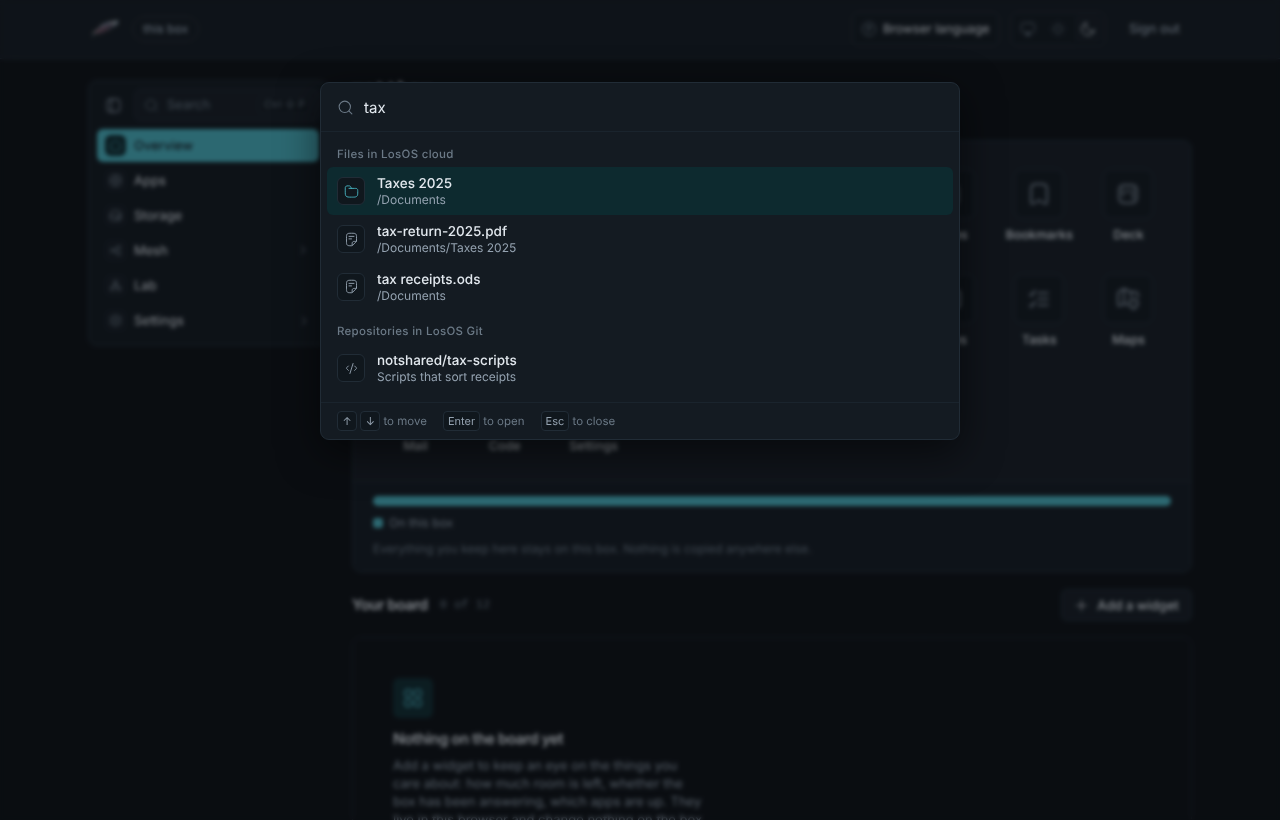
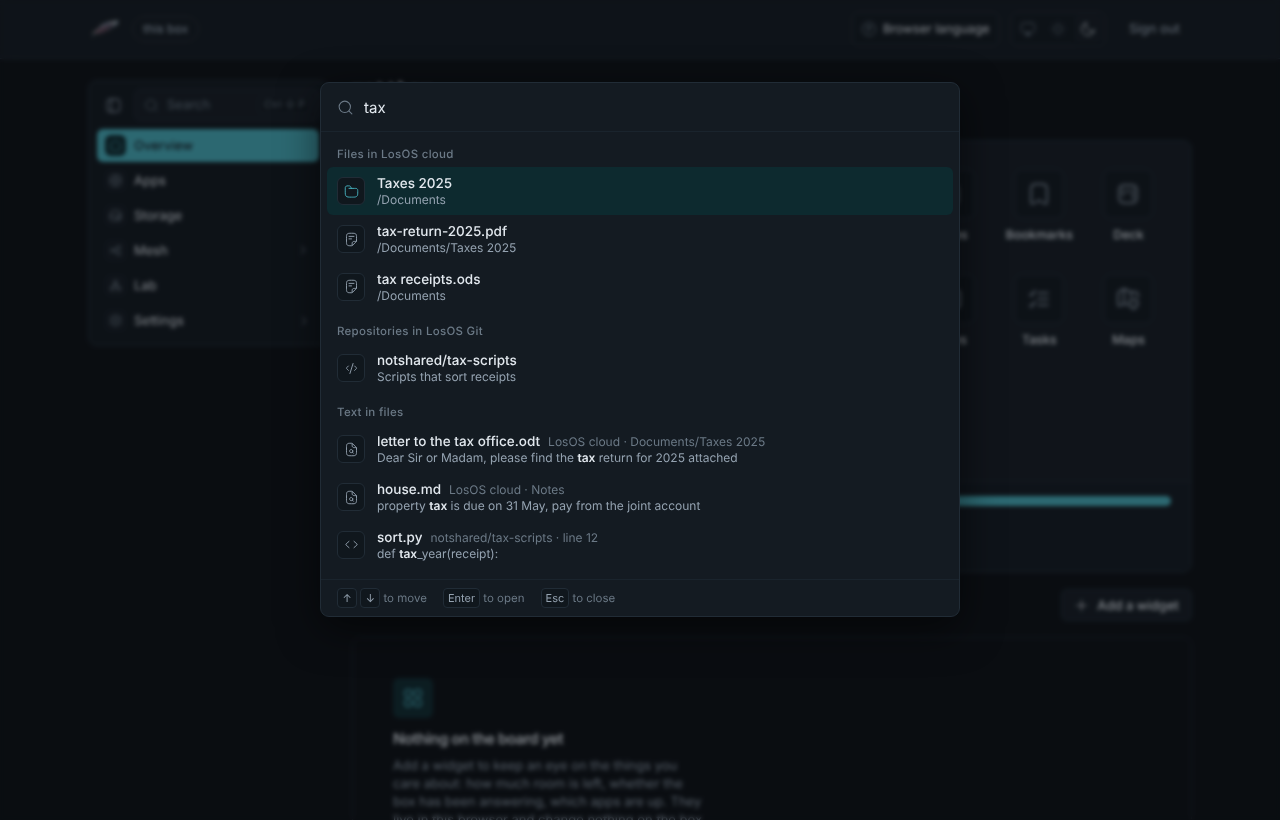
admin UI: a Text in files group in the palette
From three letters the palette asks both text searches and lists the
matching lines under the file or repository they are in, with the words
marked. A partial index says so; a box with the search off hides the
group.

Changed region(s): [[0.25, 0.4878, 0.75, 0.7622]]

diff --git a/admin-ui/app/src/palette/command-palette.tsx b/admin-ui/app/src/palette/command-palette.tsx
@@ -1,7 +1,15 @@
 import * as React from "react";
 import { useNavigate } from "react-router-dom";
 import { HugeiconsIcon } from "@hugeicons/react";
-import { File01Icon, Folder01Icon, PackageIcon, Search01Icon, SourceCodeIcon } from "@hugeicons/core-free-icons";
+import {
+  CodeIcon,
+  File01Icon,
+  FileSearchIcon,
+  Folder01Icon,
+  PackageIcon,
+  Search01Icon,
+  SourceCodeIcon,
+} from "@hugeicons/core-free-icons";
 import { Dialog } from "@/components/ui/dialog";
 import { Spinner } from "@/components/ui/spinner";
 import type { MessageKey } from "@/lib/i18n";
@@ -10,10 +18,14 @@ import { getTheme, subscribeTheme } from "@/lib/theme";
 import { cn } from "@/lib/utils";
 import { actionItems, appItems, pageItems, rank, type GroupId, type Item, type Target } from "./items";
 import {
+  cloudTextHref,
   fileHref,
+  gitTextHref,
   repoHref,
   searchApps,
+  searchCloudText,
   searchFiles,
+  searchGitText,
   searchRepos,
   useRemote,
   type Remote,
@@ -25,6 +37,9 @@ import { closePalette, paletteState, subscribePalette } from "./store";
  * it. Ctrl/Cmd+Shift+P opens it from anywhere on the page, a colon typed
  * outside a text field does too, and so does the search box at the top of
  * the sidebar.
+ *
+ * Text inside files is its own group: LosOS cloud's files through the box's
+ * index, LosOS Git's default branches through `git grep`, cloud first.
  *
  * Built on the native <dialog> (components/ui/dialog.tsx) and the ARIA
  * combobox pattern by hand: the input keeps focus, the arrow keys move a
@@ -43,12 +58,17 @@ const GROUP_TITLE: Record<GroupId, MessageKey> = {
   apps: "palette.group.apps",
   files: "palette.group.files",
   repos: "palette.group.repos",
+  text: "palette.group.text",
   install: "palette.group.install",
   actions: "palette.group.actions",
 };
 
 /** How many rows a group shows. The palette is for jumping, not browsing. */
-const LIMIT: Record<GroupId, number> = { pages: 8, apps: 6, files: 8, repos: 6, install: 5, actions: 8 };
+const LIMIT: Record<GroupId, number> = { pages: 8, apps: 6, files: 8, repos: 6, text: 8, install: 5, actions: 8 };
+
+/** Letters typed before the box is asked what is inside the files: fewer
+ *  match nearly every document. */
+const TEXT_MIN = 3;
 
 /** Before anything is typed: where to go, a few repositories, what to do. */
 const IDLE_GROUPS: readonly GroupId[] = ["pages", "repos", "actions"];
@@ -99,6 +119,8 @@ function PaletteBody({ initial }: { initial: string }) {
   const files = useRemote(true, query, 2, searchFiles);
   const repos = useRemote(true, query, 0, searchRepos);
   const install = useRemote(true, query, 2, searchApps);
+  const cloudText = useRemote(true, query, TEXT_MIN, searchCloudText);
+  const gitText = useRemote(true, query, TEXT_MIN, searchGitText);
 
   const groups: Group[] = [];
   const push = (id: GroupId, items: Item[], note: Group["note"] = null): void => {
@@ -144,6 +166,35 @@ function PaletteBody({ initial }: { initial: string }) {
       notUp: "palette.repos.notUp",
       failed: "palette.repos.failed",
     }, t),
+  );
+  push(
+    "text",
+    [
+      ...remoteItems(cloudText, query, (hit) => {
+        const cut = hit.path.lastIndexOf("/");
+        return {
+          id: `text-cloud-${hit.path}`,
+          group: "text",
+          title: hit.path.slice(cut + 1),
+          location: cut < 0 ? t("palette.inCloud") : `${t("palette.inCloud")} · ${hit.path.slice(0, cut)}`,
+          snippet: hit.snippet,
+          words: hit.snippet.join(""),
+          icon: FileSearchIcon,
+          target: { kind: "href", href: cloudTextHref(hit) },
+        };
+      }),
+      ...remoteItems(gitText, query, (hit) => ({
+        id: `text-git-${hit.owner}-${hit.repo}-${hit.path}-${hit.line}`,
+        group: "text",
+        title: hit.path.slice(hit.path.lastIndexOf("/") + 1),
+        location: `${hit.owner}/${hit.repo} · ${t("palette.text.line", { line: String(hit.line) })}`,
+        snippet: hit.snippet,
+        words: hit.snippet.join(""),
+        icon: CodeIcon,
+        target: { kind: "href", href: gitTextHref(hit) },
+      })),
+    ],
+    textNote(cloudText, gitText, t),
   );
   push(
     "install",
@@ -329,9 +380,30 @@ function Option({
         <HugeiconsIcon icon={item.icon} size={15} strokeWidth={1.5} color="currentColor" aria-hidden="true" />
       </span>
       <span className="min-w-0 flex-1">
-        <span className="block truncate text-[13.5px] leading-tight font-medium">{item.title}</span>
-        {item.detail !== undefined && item.detail !== null && item.detail.length > 0 && (
-          <span className="block truncate text-[12px] leading-tight text-muted">{item.detail}</span>
+        <span className="flex min-w-0 items-baseline gap-2">
+          <span className="truncate text-[13.5px] leading-tight font-medium">{item.title}</span>
+          {item.location !== undefined && (
+            <span className="min-w-0 shrink truncate text-[12px] leading-tight text-faint">{item.location}</span>
+          )}
+        </span>
+        {item.snippet !== undefined ? (
+          <span className="block truncate text-[12px] leading-tight text-muted">
+            {item.snippet.map((run, index) =>
+              index % 2 === 1 ? (
+                <mark key={index} className="bg-transparent font-semibold text-ink">
+                  {run}
+                </mark>
+              ) : (
+                <React.Fragment key={index}>{run}</React.Fragment>
+              ),
+            )}
+          </span>
+        ) : (
+          item.detail !== undefined &&
+          item.detail !== null &&
+          item.detail.length > 0 && (
+            <span className="block truncate text-[12px] leading-tight text-muted">{item.detail}</span>
+          )
         )}
       </span>
     </div>
@@ -401,6 +473,20 @@ function remoteNote<T>(remote: Remote<T>, keys: NoteKeys, t: ReturnType<typeof u
     default:
       return null;
   }
+}
+
+/* The text group's one line for both searches: looking while neither has
+ * anything to show yet, then that the cloud index is still being built, then
+ * a failure. A search the box does not run (off, no LosOS Git, not up yet)
+ * says nothing; the other one still lists its hits. */
+function textNote<A, B>(cloud: Remote<A>, git: Remote<B>, t: ReturnType<typeof useT>): Group["note"] {
+  const shown = (r: Remote<unknown>): boolean => r.kind === "ready" && r.items.length > 0;
+  if ((cloud.kind === "loading" || git.kind === "loading") && !shown(cloud) && !shown(git)) {
+    return { text: t("palette.text.looking"), busy: true };
+  }
+  if (cloud.kind === "ready" && cloud.partial) return { text: t("palette.text.partial"), busy: false };
+  if (cloud.kind === "failed" || git.kind === "failed") return { text: t("palette.text.failed"), busy: false };
+  return null;
 }
 
 /** "/Documents/Taxes/x.pdf" -> "/Documents/Taxes". */

diff --git a/admin-ui/app/src/palette/sources.ts b/admin-ui/app/src/palette/sources.ts
@@ -4,7 +4,8 @@ import { searchCatalogue, type CatalogueApp } from "@/screens/settings/catalogue
 import { authedGet, isRecord, nonEmptyString, notPresent } from "@/screens/settings/http";
 
 /* What the palette asks the box for while the owner types: files in LosOS
- * cloud, repositories in LosOS Git and apps to install.
+ * cloud, repositories in LosOS Git, text inside the files of both, and apps
+ * to install.
  *
  * Every one of them goes through lososd. The page is served under
  * `connect-src 'self'`, and the two apps' own APIs want credentials this
@@ -28,27 +29,47 @@ export interface GitRepo {
   description: string | null;
 }
 
+/** A file in LosOS cloud whose text matched. */
+export interface CloudText {
+  /** From the owner's root, without a leading slash. */
+  path: string;
+  /** Alternating runs: even indices plain, odd ones what matched. */
+  snippet: readonly string[];
+}
+
+/** A line on a repository's default branch that matched. */
+export interface GitText {
+  owner: string;
+  repo: string;
+  branch: string;
+  path: string;
+  line: number;
+  snippet: readonly string[];
+}
+
 /* Why a group has nothing to list even though its route answered:
  *   signIn  file search needs the app password lososd keeps from the
  *           owner's last password sign-in, and there has not been one yet
  *   notUp   the app is not running (yet)
- *   noGit   this box runs no LosOS Git */
-export type Blocked = "signIn" | "notUp" | "noGit";
+ *   noGit   this box runs no LosOS Git
+ *   off     the owner turned the search inside files off */
+export type Blocked = "signIn" | "notUp" | "noGit" | "off";
 
 export type Remote<T> =
   | { kind: "idle" }
   | { kind: "loading" }
   /** `query` is what the items answer; while the next answer is on its way
-   *  the palette keeps them, narrowed to what is typed now. */
-  | { kind: "ready"; items: readonly T[]; query: string }
+   *  the palette keeps them, narrowed to what is typed now. `partial`: the
+   *  box has not finished reading everything yet. */
+  | { kind: "ready"; items: readonly T[]; query: string; partial: boolean }
   | { kind: "blocked"; reason: Blocked }
   | { kind: "absent" }
   | { kind: "failed" };
 
-type Answer<T> = { items: readonly T[] } | { blocked: Blocked };
+type Answer<T> = { items: readonly T[]; partial?: boolean } | { blocked: Blocked };
 
 function blockedReason(value: unknown): Blocked {
-  return value === "signIn" || value === "noGit" ? value : "notUp";
+  return value === "signIn" || value === "noGit" || value === "off" ? value : "notUp";
 }
 
 /** GET /api/cloud/files?q= : `{available, reason, entries: [...]}`. */
@@ -86,6 +107,47 @@ export async function searchRepos(query: string, signal: AbortSignal): Promise<A
   return { items };
 }
 
+/** Alternating plain and matched runs, as the box sends them. */
+function snippetOf(value: unknown): string[] {
+  return Array.isArray(value) ? value.filter((run): run is string => typeof run === "string") : [];
+}
+
+/** GET /api/cloud/text?q= : `{available, reason, partial, hits: [...]}`. */
+export async function searchCloudText(query: string, signal: AbortSignal): Promise<Answer<CloudText>> {
+  const body = await authedGet(`/api/cloud/text?q=${encodeURIComponent(query)}`, { signal });
+  if (!isRecord(body)) return { items: [] };
+  if (body["available"] === false) return { blocked: blockedReason(body["reason"]) };
+  const items: CloudText[] = [];
+  for (const hit of Array.isArray(body["hits"]) ? body["hits"] : []) {
+    if (!isRecord(hit)) continue;
+    const path = nonEmptyString(hit["path"]);
+    if (path === null) continue;
+    items.push({ path, snippet: snippetOf(hit["snippet"]) });
+  }
+  return { items, partial: body["partial"] === true };
+}
+
+/** GET /api/git/text?q= : `{available, reason, hits: [...]}`. */
+export async function searchGitText(query: string, signal: AbortSignal): Promise<Answer<GitText>> {
+  const body = await authedGet(`/api/git/text?q=${encodeURIComponent(query)}`, { signal });
+  if (!isRecord(body)) return { items: [] };
+  if (body["available"] === false) return { blocked: blockedReason(body["reason"]) };
+  const items: GitText[] = [];
+  for (const hit of Array.isArray(body["hits"]) ? body["hits"] : []) {
+    if (!isRecord(hit)) continue;
+    const owner = nonEmptyString(hit["owner"]);
+    const repo = nonEmptyString(hit["repo"]);
+    const branch = nonEmptyString(hit["branch"]);
+    const path = nonEmptyString(hit["path"]);
+    const line = hit["line"];
+    if (owner === null || repo === null || branch === null || path === null) continue;
+    if (!/^[\w.-]+$/.test(owner) || !/^[\w.-]+$/.test(repo)) continue;
+    if (typeof line !== "number" || !Number.isSafeInteger(line) || line < 1) continue;
+    items.push({ owner, repo, branch, path, line, snippet: snippetOf(hit["snippet"]) });
+  }
+  return { items };
+}
+
 export async function searchApps(query: string, signal: AbortSignal): Promise<Answer<CatalogueApp>> {
   return { items: (await searchCatalogue(query, signal)).apps };
 }
@@ -96,6 +158,26 @@ export function fileHref(file: CloudFile): string {
 
 export function repoHref(repo: GitRepo): string {
   return `/forgejo/${encodeURIComponent(repo.owner)}/${encodeURIComponent(repo.name)}`;
+}
+
+/** Each segment of a path, escaped on its own. */
+function segments(path: string): string {
+  return path.split("/").filter((part) => part.length > 0).map(encodeURIComponent).join("/");
+}
+
+/* A cloud hit opens its folder in LosOS cloud's Files with the file
+ * scrolled to: the index knows paths, and Nextcloud's /f/<id> wants the id
+ * only Nextcloud's own database holds. */
+export function cloudTextHref(hit: CloudText): string {
+  const cut = hit.path.lastIndexOf("/");
+  const dir = cut < 0 ? "/" : `/${hit.path.slice(0, cut)}`;
+  const name = hit.path.slice(cut + 1);
+  return `/nextcloud/index.php/apps/files/?dir=${encodeURIComponent(dir)}&scrollto=${encodeURIComponent(name)}`;
+}
+
+/** The line in LosOS Git's file view. */
+export function gitTextHref(hit: GitText): string {
+  return `${repoHref({ owner: hit.owner, name: hit.repo, private: false, description: null })}/src/branch/${segments(hit.branch)}/${segments(hit.path)}#L${hit.line}`;
 }
 
 /** Debounce: typing a word is one request, not one per letter. */
@@ -132,7 +214,7 @@ export function useRemote<T>(
             setState(
               "blocked" in answer
                 ? { kind: "blocked", reason: answer.blocked }
-                : { kind: "ready", items: answer.items, query: trimmed },
+                : { kind: "ready", items: answer.items, query: trimmed, partial: answer.partial === true },
             );
           } catch (error) {
             if (isAbort(error) || controller.signal.aborted) return;

diff --git a/admin-ui/app/src/i18n/palette.ts b/admin-ui/app/src/i18n/palette.ts
@@ -36,6 +36,7 @@ export default defineMessages({
     sk: "Repozitáre v LosOS Git",
     de: "Repositorys in LosOS Git",
   },
+  "palette.group.text": { en: "Text in files", sk: "Text v súboroch", de: "Text in Dateien" },
   "palette.group.install": { en: "Apps to install", sk: "Aplikácie na inštaláciu", de: "Apps zum Installieren" },
   "palette.group.actions": { en: "Actions", sk: "Akcie", de: "Aktionen" },
 
@@ -65,6 +66,18 @@ export default defineMessages({
     sk: "LosOS Git neodpovedal.",
     de: "LosOS Git hat nicht geantwortet.",
   },
+  "palette.text.looking": { en: "Looking inside files", sk: "Hľadám v obsahu súborov", de: "Suche in den Dateien" },
+  "palette.text.partial": {
+    en: "LosOS cloud is still reading your files, so more may turn up.",
+    sk: "LosOS cloud ešte číta vaše súbory, takže môže pribudnúť viac.",
+    de: "LosOS cloud liest deine Dateien noch, es kann also mehr dazukommen.",
+  },
+  "palette.text.failed": {
+    en: "The search inside files did not answer.",
+    sk: "Hľadanie v obsahu súborov neodpovedalo.",
+    de: "Die Suche in den Dateien hat nicht geantwortet.",
+  },
+  "palette.text.line": { en: "line {line}", sk: "riadok {line}", de: "Zeile {line}" },
   "palette.install.looking": {
     en: "Searching the app catalogue",
     sk: "Hľadám v katalógu aplikácií",

diff --git a/admin-ui/app/src/palette/items.ts b/admin-ui/app/src/palette/items.ts
@@ -34,7 +34,7 @@ export type Target =
   | { kind: "href"; href: string }
   | { kind: "run"; run: () => void };
 
-export type GroupId = "pages" | "apps" | "files" | "repos" | "install" | "actions";
+export type GroupId = "pages" | "apps" | "files" | "repos" | "text" | "install" | "actions";
 
 export interface Item {
   /** Unique across the whole list; also the option's DOM id suffix. */
@@ -43,6 +43,11 @@ export interface Item {
   title: string;
   /** A second, quieter line: the path of a file, a repository's description. */
   detail?: string | null;
+  /** Beside the title, quieter still: where a text match is. */
+  location?: string;
+  /** In place of the detail: text with what matched marked, as alternating
+   *  plain and matched runs. */
+  snippet?: readonly string[];
   icon: IconSvgElement;
   words?: string;
   target: Target;

diff --git a/handbook/docs/manual/admin-pages.md b/handbook/docs/manual/admin-pages.md
@@ -39,6 +39,8 @@ field. It finds:
 - the apps in LosOS cloud, and LosOS Git
 - files and folders in LosOS cloud, by name
 - repositories in LosOS Git
+- text inside files, once you type three letters: in your LosOS cloud files,
+  and on the main branch of every repository in LosOS Git
 - apps to install from Artifact Hub; picking one opens the Apps pane with
   its install dialog
 - a few actions: the light or dark theme, the language, the tour, this
@@ -50,6 +52,17 @@ Ctrl+Enter or Cmd+Enter opens one in a new tab.
 
 File search needs one sign-in with your password, not the spare key. Until
 then the list says so in place of the files.
+
+To search inside your LosOS cloud files, the box keeps an index of their
+text. It checks for new and changed files every two minutes and reads only
+those. It reads plain text and code, Markdown, CSV, JSON and HTML,
+OpenDocument files, Word, Excel and PowerPoint files in their current formats
+(.docx, .xlsx, .pptx), and PDFs. Pictures, audio, video and archives are skipped, and only the first
+megabyte of text in each file is kept. Right after the first start the list
+says the box is still reading your files. The index stays on the box, a
+factory erase deletes it, and `losos.search.enable` on the Advanced pane turns
+it off. LosOS Git needs no index: each search reads the repositories
+directly.
 
 ## The tour
 

diff --git a/CLAUDE.md b/CLAUDE.md
@@ -120,6 +120,12 @@ and is never served or built by nix.
   on the host network as `notshared` or `shared` without root, turns claims
   into folders in that user's data domain and refuses a chart that needs
   more; nginx forwards a port of `losos.apps.ports` to it, LAN only.
+- `search.nix` + `backend/src/textsearch/` (`losos-search`): text inside
+  files for the palette. A timer pass keeps an SQLite FTS5 index of the
+  owner's cloud files in `/var/lib/losos-search` as `nextcloud` (only what
+  changed is re-read); Git is `git grep` per query as `forgejo`. Both answer
+  on Accept=yes sockets under `/run/losos-search` that only root (lososd's
+  `/api/{cloud,git}/text`) can open. `tests/search.nix` boots it.
 - `admin-ui/themes/`: the SPA's `tokens.css` is shipped byte for byte as
   `losos-tokens.css` into the Nextcloud theme folder and Forgejo's custom
   CSS, so one colour change moves all three. `default.nix` is the data every
